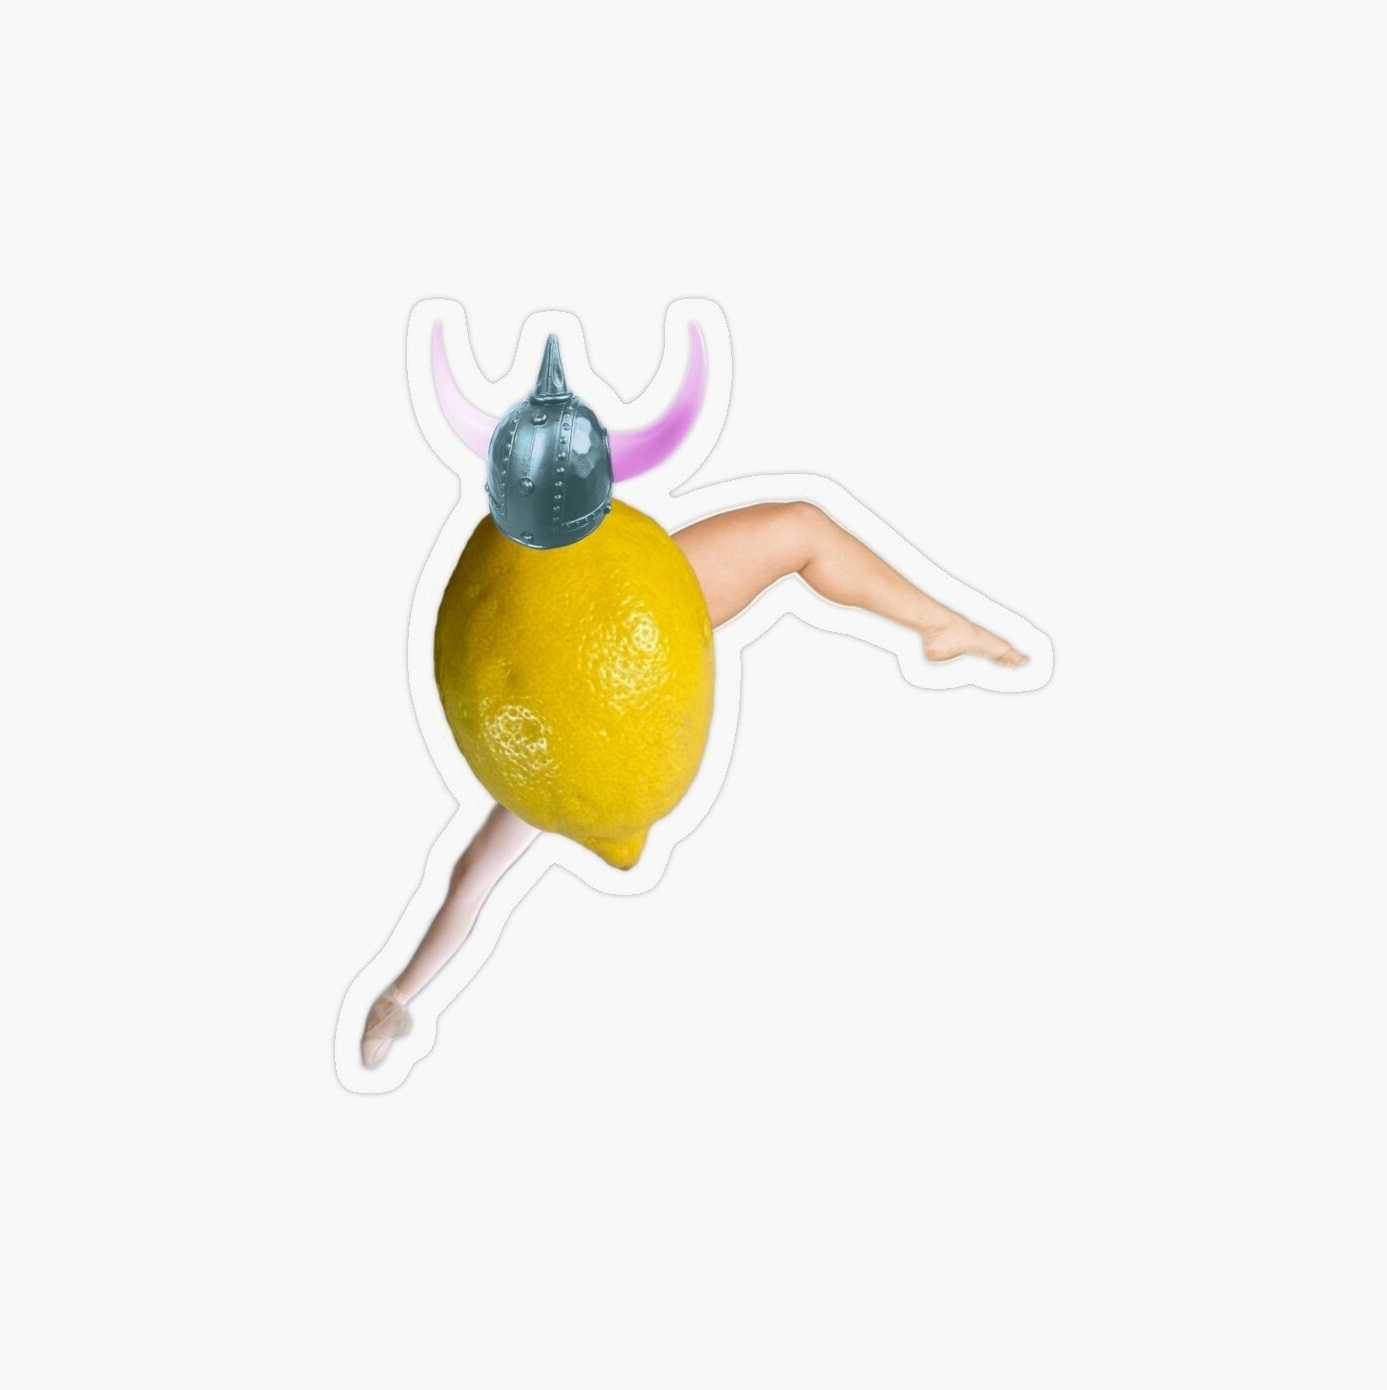
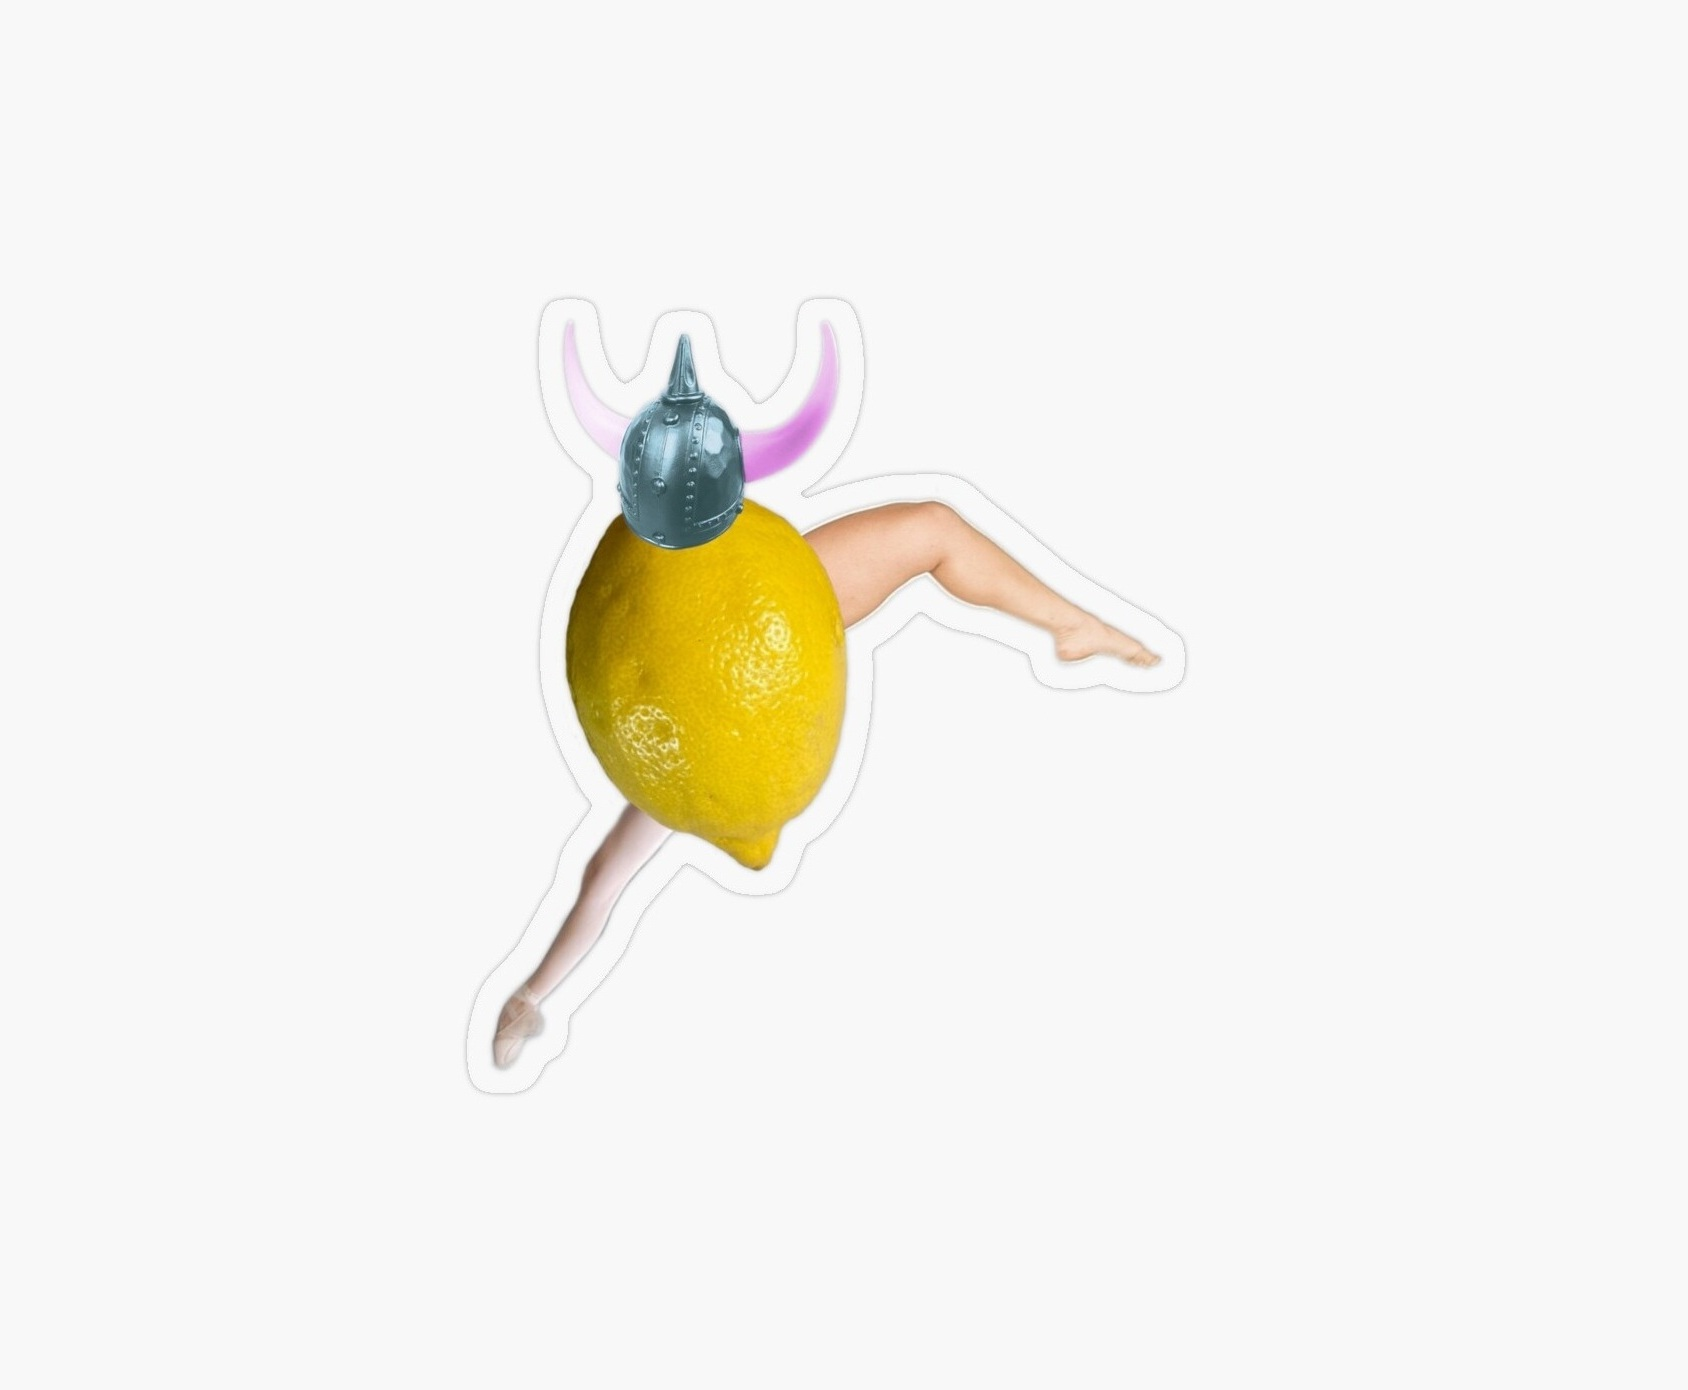
Spread adjustments

Changed region(s): [[0.248, 0.2165, 0.7441, 0.7734], [0.465, 0.2165, 0.527, 0.3403], [0.31, 0.2165, 0.341, 0.2784]]

diff --git a/Spread/index.html b/Spread/index.html
@@ -341,18 +341,6 @@
                     alt="Lemon with purple horns or antlers"
                 >
             </a>
-            
-            <a
-                class="product-piece piece-shirt-tall"
-                href="https://www.redbubble.com/i/t-shirt/Lemon-catches-canvas-on-fire-by-Lemondala/182422715/z5wf"
-                target="_blank"
-                rel="noopener noreferrer"
-            >
-                <img
-                    src="../Spread/images/27.canvas_on_fire.jpg"
-                    alt="Lemon paints the lemondala lemon flower while the blue cupcake lemon sets the canvas on fire with its candle"
-                >
-            </a>
 
             <a
                 class="product-piece piece-small"
